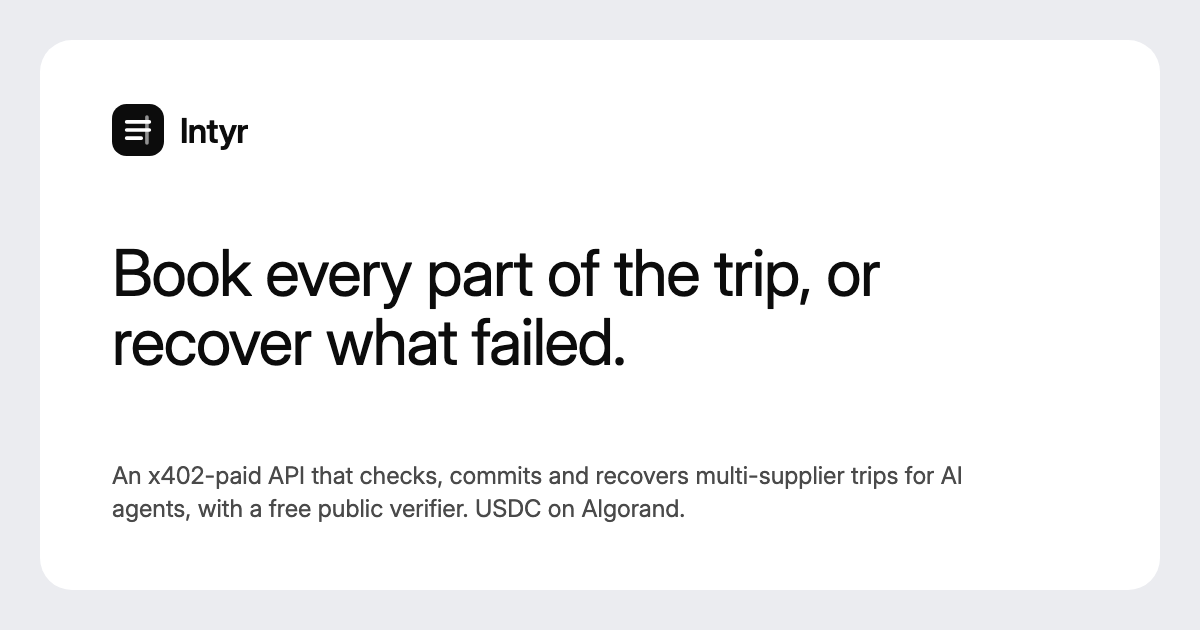
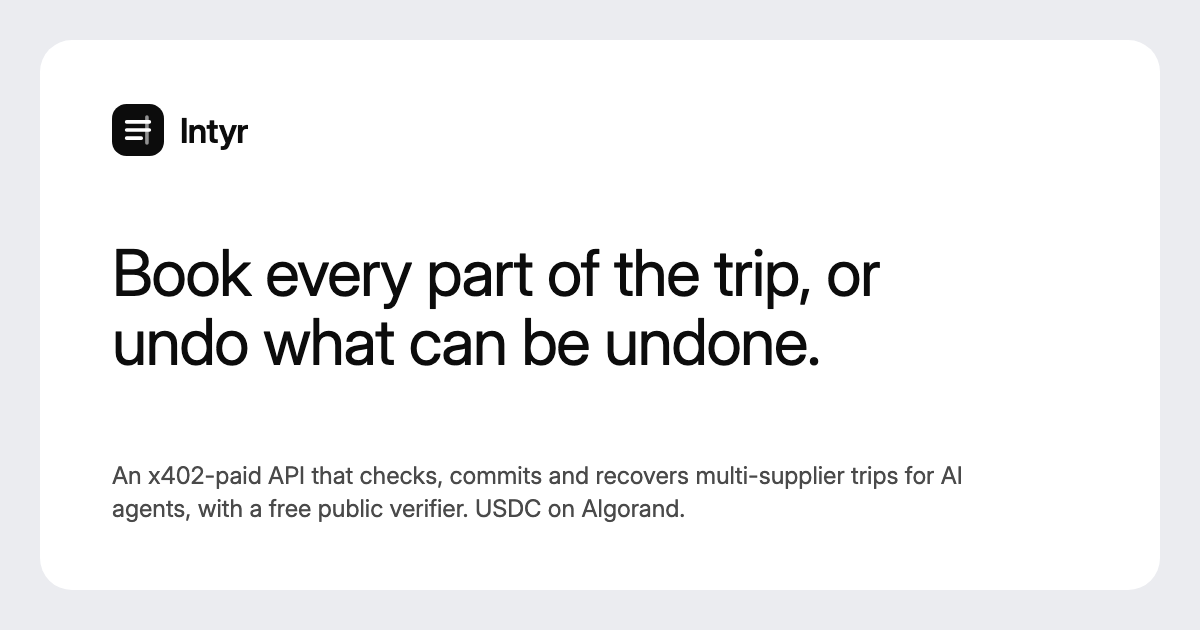
feat(web): state the campaign 001 result and link RUN-001's real records
Campaign 001 did not support the pre-registered claim that Intyr is more
reliable than a careful script. The landing page now shows the narrowed
claim as RESULTS.md states it, the three arms' figures and the F10 cell
Intyr lost, and adds commit order as a limit. The hero reads "Book every
part of the trip, or undo what can be undone", since F10 and the first
real-supplier run both ended with a leg that could not be undone.

The evidence page described RUN-001 as an end-to-end trip and said it was
not published. It is a team-paid Mainnet check, so the page says that,
labels it INTERNAL_VALIDATION and links its plan and USDC payment.
Campaign links point at RESULTS.md, which puts the loss first.

Changed region(s): [[0.0925, 0.5127, 0.6783, 0.6032]]

diff --git a/apps/web/src/routes/public/landing.tsx b/apps/web/src/routes/public/landing.tsx
@@ -1,5 +1,5 @@
 import { useEffect, type ReactNode } from "react";
-import { Link, useLocation } from "react-router";
+import { useLocation } from "react-router";
 import { BedDouble, Car, Check, Minus, Plane, RotateCcw, Send } from "lucide-react";
 import { LivePriceTable, findRoute, formatUsdc, useLivePrices, type LivePrices } from "../../components/landing-prices";
 import { LandingSteps } from "../../components/landing-steps";
@@ -7,6 +7,8 @@ import { TripRails } from "../../components/trip-rails";
 import { ButtonLink, Chip, ComponentStateChip, TripStateChip } from "../../components/ui";
 import type { TripComponent } from "../../lib/types";
 import type { Resource } from "../../lib/use-resource";
+
+const CAMPAIGN_RESULTS_URL = "https://github.com/winsznx/intyr/blob/main/evidence/campaign-001/RESULTS.md";
 
 /** Illustrative trip for the hero frame. Captioned as an illustration, never presented as a live run. */
 const EXAMPLE_TRIP: TripComponent[] = [
@@ -98,7 +100,7 @@ function Hero({ prices }: { prices: LivePrices | undefined }) {
         <div className="lp-hero-head">
           <span className="badge">For AI agents that book trips</span>
           <h1 className="display lp-hero-title" id="lp-hero-title">
-            Book every part of the trip, or recover what failed.
+            Book every part of the trip, or undo what can be undone.
           </h1>
           <p className="body-l lp-hero-sub">
             Intyr prepares each flight, hotel and transfer an AI agent wants, checks it before money moves, commits only inside the limits you set and
@@ -218,10 +220,11 @@ function Problem() {
         <p className="lp-footnote">
           These failures come from documented supplier behavior: lost responses, failures reported later, a reply that claims a booking that does not
           exist, and blind retries that book twice. The{" "}
-          <Link className="link" to="/evidence">
-            evidence page
-          </Link>{" "}
-          shows a naive agent running into each of them in a seeded simulator.
+          <a className="link" href={CAMPAIGN_RESULTS_URL} target="_blank" rel="noreferrer">
+            campaign results
+            <span className="visually-hidden"> (opens in a new tab)</span>
+          </a>{" "}
+          show a naive agent running into each of them in a seeded simulator.
         </p>
       </div>
     </section>
@@ -240,11 +243,96 @@ function HowItWorks() {
             </h2>
           </div>
           <p className="body-l">
-            Intyr gives an agent the commit and recovery behavior a careful engineer would write, as paid x402 calls. Each step returns a decision the
-            agent can branch on and a signed receipt.
+            Intyr gives an agent the commit and recovery behavior a careful engineer would write, as paid x402 calls, and matched such a script in
+            ten of eleven campaign cells. Each step returns a decision the agent can branch on and a signed receipt.
           </p>
         </div>
         <LandingSteps />
+      </div>
+    </section>
+  );
+}
+
+/** Figures from evidence/campaign-001/RESULTS.md. The claim is the narrowed one that document states, quoted as written. */
+const CAMPAIGN_ARMS = [
+  { name: "Naive agent", duplicates: "20", work: "3.6 supplier calls per trip", consistent: "36%" },
+  { name: "Careful script", duplicates: "0", work: "8.7 supplier calls per trip, and 431 lines of the caller's own code", consistent: "100%" },
+  { name: "Intyr", duplicates: "0", work: "2.9 calls to Intyr per trip", consistent: "92%" },
+];
+
+function Results() {
+  return (
+    <section className="section" aria-labelledby="lp-results-title">
+      <div className="container">
+        <div className="section-head">
+          <div className="lp-head-main">
+            <span className="badge">Measured</span>
+            <h2 className="h2" id="lp-results-title">
+              It matched a careful script in ten of eleven cells and lost one
+            </h2>
+          </div>
+          <p className="body-l">
+            Under ten documented supplier fault patterns, a naive agent leaves bookings stranded or duplicated in most runs. A careful engineer's script
+            avoids that. Intyr provides the same careful behaviour as one paid call per step, 2.9 calls per trip from the caller's side, with signed
+            manifests and decision records, and it matched that script in ten of eleven cells and lost one.
+          </p>
+        </div>
+
+        <div className="lp-prices">
+          <div className="lp-prices-head">
+            <p className="lp-prices-title">Campaign 001, 110 runs per approach on the seeded simulator</p>
+          </div>
+          <div className="lp-prices-body">
+            <table className="lp-price-table">
+              <thead>
+                <tr>
+                  <th scope="col">Approach</th>
+                  <th scope="col">Duplicate orders</th>
+                  <th scope="col">Work for the caller</th>
+                  <th scope="col" className="lp-pt-price">
+                    Consistent end state
+                  </th>
+                </tr>
+              </thead>
+              <tbody>
+                {CAMPAIGN_ARMS.map((arm) => (
+                  <tr key={arm.name}>
+                    <td className="lp-pt-call">
+                      <span className="lp-pt-name">{arm.name}</span>
+                    </td>
+                    <td className="lp-pt-returns" data-label="Duplicate orders">
+                      {arm.duplicates}
+                    </td>
+                    <td className="lp-pt-fee" data-label="Work for the caller">
+                      {arm.work}
+                    </td>
+                    <td className="lp-pt-price" data-label="Consistent">
+                      {arm.consistent}
+                    </td>
+                  </tr>
+                ))}
+              </tbody>
+            </table>
+          </div>
+          <p className="lp-prices-note">
+            A consistent end state means every leg ended fully booked or fully unwound, as read from the simulator's own order list. The campaign was
+            pre-registered in the repository before any run.
+          </p>
+        </div>
+
+        <article className="soft-card lp-card lp-results-loss">
+          <h3 className="title-s">The cell Intyr lost</h3>
+          <p className="body">
+            The hotel accepted the booking and then refused every cancellation, and the flight was refused. Nothing in either quote said the hotel could
+            not be cancelled, so Intyr booked the cheaper hotel first. 9 of 10 runs ended <code>RECOVERY_FAILED</code> with the hotel still booked,
+            and Intyr reported the stranded hotel each time. The script booked the flight first and stranded nothing.{" "}
+            <a className="link" href={CAMPAIGN_RESULTS_URL} target="_blank" rel="noreferrer">
+              Read the full results
+              <span className="visually-hidden"> (opens in a new tab)</span>
+            </a>
+            .
+          </p>
+        </article>
       </div>
     </section>
   );
@@ -357,6 +445,10 @@ const LIMITS = [
     text: "Supplier calls run against test modes and the simulator, so no ticket, room or ride is issued to anyone.",
   },
   {
+    lead: "Commit order is a tie-break",
+    text: "When no leg is marked as impossible to undo, Intyr commits the leg that expires first, then the cheaper one. If that leg later refuses to cancel, it stays booked, and the trip ends RECOVERY_FAILED naming it.",
+  },
+  {
     lead: "No insurance or bond",
     text: "Assurance mode is none. Intyr lowers the chance and size of a partial booking and underwrites nothing when one happens.",
   },
@@ -434,6 +526,7 @@ export function LandingPage() {
       <Hero prices={prices.data} />
       <Problem />
       <HowItWorks />
+      <Results />
       <Proof />
       <Pricing prices={prices} />
       <Limits />

diff --git a/apps/web/src/routes/public/evidence.tsx b/apps/web/src/routes/public/evidence.tsx
@@ -44,14 +44,16 @@ export function EvidenceIndexPage() {
         <h1 className="h2">The record behind the claims</h1>
         <div className="pf-lede">
           <p className="body-l">
-            The evidence bundle is the published record behind Intyr's claims. RUN-001 is the canonical run, one agent trip taken end to end with real
-            x402 payments in USDC and manifest anchors on Algorand that anyone can look up.
+            The evidence bundle is the published record behind Intyr's claims. RUN-001 is a paid call on Algorand Mainnet: a caller paid for a trip
+            check in USDC over x402, and Intyr returned a signed commit plan anchored on Algorand. The team paid it from its own wallet, so it is
+            labeled INTERNAL_VALIDATION and is not outside adoption.
           </p>
           <p className="body">
-            campaign-001 is a TestNet campaign on the seeded simulator. A naive agent, an independently written script and Intyr face the same supplier
-            faults, and each run is kept with its result. Suppliers in both are sandbox or simulated.
+            campaign-001 is a pre-registered campaign on the seeded simulator. A naive agent, an independently written script and Intyr face the same
+            supplier faults, and each run is kept with its result. Intyr matched the script in ten of eleven cells and lost one. Suppliers in both are
+            sandbox or simulated.
           </p>
-          <p className="body">Every figure on this page comes from the API. A record that is not published yet says so.</p>
+          <p className="body">Figures come from the API. Where the API does not serve a record yet, the card says so and links the results committed in the repository.</p>
         </div>
       </header>
 
@@ -59,13 +61,8 @@ export function EvidenceIndexPage() {
         <EvidenceCard
           runId="RUN-001"
           title="Canonical run"
-          summary="One trip from payment to final manifest, with payment and anchor transactions you can open in an explorer."
-          notFound={
-            <div className="pf-ev-empty">
-              <p className="pf-ev-empty-title">Not published yet</p>
-              <p className="small muted">The API has no record for RUN-001 yet. This card fills in once it is published.</p>
-            </div>
-          }
+          summary="A paid Mainnet check: the USDC payment and the signed, anchored commit plan it bought."
+          notFound={<Run001Links />}
         />
         <EvidenceCard
           runId="campaign-001"
@@ -74,9 +71,13 @@ export function EvidenceIndexPage() {
           notFound={
             <div className="pf-ev-empty">
               <p className="pf-ev-empty-title">Results are in the repository</p>
-              <p className="small muted">The API does not serve this campaign yet. Its summary is committed with the code. Suppliers in it are the seeded simulator.</p>
-              <a className="pf-ext" href={CAMPAIGN_SUMMARY_URL} target="_blank" rel="noreferrer">
-                Read the campaign summary on GitHub
+              <p className="small muted">
+                110 runs per approach on the seeded simulator. The naive agent ended consistent in 36% of runs with 20 duplicate orders, the script in
+                100%, and Intyr in 92% with no duplicates. Intyr lost one cell, where a hotel refused every cancellation, and reported the stranded hotel
+                each time. The API does not serve this campaign yet.
+              </p>
+              <a className="pf-ext" href={CAMPAIGN_RESULTS_URL} target="_blank" rel="noreferrer">
+                Read the campaign results on GitHub
                 <ArrowUpRight aria-hidden />
                 <span className="visually-hidden"> (opens in a new tab)</span>
               </a>
@@ -88,7 +89,29 @@ export function EvidenceIndexPage() {
   );
 }
 
-const CAMPAIGN_SUMMARY_URL = "https://github.com/winsznx/intyr/blob/main/evidence/campaign-001/SUMMARY.md";
+const CAMPAIGN_RESULTS_URL = "https://github.com/winsznx/intyr/blob/main/evidence/campaign-001/RESULTS.md";
+
+const RUN_001 = {
+  planId: "pln_357c45b828fabcb25b5e271e",
+  paymentTxUrl: "https://allo.info/tx/2MD7RMXDHTLVE76ZNTAOZKZCYEPLF7AIBBOAGZQEO6JOFQLNLVPA",
+};
+
+/** The API serves no evidence route for RUN-001, so the card links the records that exist: the plan and its payment. */
+function Run001Links() {
+  return (
+    <div className="pf-ev-empty">
+      <p className="small muted">The API does not serve an evidence record for this run. Its plan and payment are public on their own.</p>
+      <Link className="pf-ext" to={`/verify/${RUN_001.planId}`}>
+        RUN-001, Mainnet, team-paid, INTERNAL_VALIDATION
+      </Link>
+      <a className="pf-ext" href={RUN_001.paymentTxUrl} target="_blank" rel="noreferrer">
+        The USDC payment on Algorand Mainnet
+        <ArrowUpRight aria-hidden />
+        <span className="visually-hidden"> (opens in a new tab)</span>
+      </a>
+    </div>
+  );
+}
 
 function EvidenceCard({ runId, title, summary, notFound }: { runId: string; title: string; summary: string; notFound: ReactNode }) {
   const run = useEvidenceRun(runId);
@@ -224,8 +247,9 @@ export function EvidenceRunPage() {
           </span>
           <h1 className="title-m">{runId} is not published yet</h1>
           <p className="body">The API has no evidence record with this id. Published runs are listed on the evidence page.</p>
+          {runId === "RUN-001" ? <Run001Links /> : null}
           {runId === "campaign-001" ? (
-            <a className="pf-ext" href={CAMPAIGN_SUMMARY_URL} target="_blank" rel="noreferrer">
+            <a className="pf-ext" href={CAMPAIGN_RESULTS_URL} target="_blank" rel="noreferrer">
               Results are in the repository, run on the seeded simulator
               <ArrowUpRight aria-hidden />
               <span className="visually-hidden"> (opens in a new tab)</span>

diff --git a/apps/web/src/styles/landing.css b/apps/web/src/styles/landing.css
@@ -407,7 +407,7 @@
   margin-top: 12px;
 }
 
-/* Live price list, shared by the landing page and the quickstart */
+/* Data tables: the live price list (landing page and quickstart) and the campaign results */
 .lp-prices {
   padding: 8px;
   border-radius: var(--r-32);
@@ -508,6 +508,10 @@
 
 .lp-price-table td.lp-pt-price .skeleton {
   margin-left: auto;
+}
+
+.lp-results-loss {
+  margin-top: 24px;
 }
 
 .lp-skeleton-lines {
@@ -791,6 +795,14 @@
     content: attr(data-label);
     display: block;
     margin-bottom: 2px;
+    font-size: 12px;
+    color: var(--ink-3);
+  }
+
+  .lp-price-table td.lp-pt-price[data-label]::before {
+    content: attr(data-label);
+    margin-right: 6px;
+    font-family: var(--font-sans);
     font-size: 12px;
     color: var(--ink-3);
   }

diff --git a/apps/web/index.html b/apps/web/index.html
@@ -17,7 +17,7 @@
     <meta property="og:image" content="https://intyr.timjosh507.workers.dev/og.png" />
     <meta property="og:image:width" content="1200" />
     <meta property="og:image:height" content="630" />
-    <meta property="og:image:alt" content="Intyr. Book every part of the trip, or recover what failed." />
+    <meta property="og:image:alt" content="Intyr. Book every part of the trip, or undo what can be undone." />
     <meta name="twitter:card" content="summary_large_image" />
     <meta name="twitter:title" content="Intyr" />
     <meta name="twitter:description" content="An x402-paid API that checks, commits and recovers multi-supplier trips for AI agents, with a free public verifier." />

diff --git a/docs/web-ui.md b/docs/web-ui.md
@@ -8,10 +8,10 @@ Screenshots of live sandbox runs of every demo scenario are in [docs/evidence/ui
 
 | Route | Who it is for | What it shows |
 |---|---|---|
-| `/` | Anyone evaluating Intyr | What Intyr does, how check, prepare, commit and recover work, what a receipt proves and what it does not, live prices read from the API, and the limits of this release |
+| `/` | Anyone evaluating Intyr | What Intyr does, how check, prepare, commit and recover work, the campaign result (it matched a careful script in ten of eleven cells and lost one), what a receipt proves and what it does not, live prices read from the API, and the limits of this release |
 | `/docs/quickstart` | Agent developers | Discovery files, a `POST /v1/trips/check` example, the 402 challenge, a TypeScript client using `@x402/fetch` and `@x402/avm`, how to read `payment_state`, and the decision outcomes |
 | `/verify`, `/verify/:manifestId` | Anyone holding a manifest id or file | The proof page: claim sentence, proof state, the checks that ran, what the record proves and what it does not, environment and supplier labels, anchors, signing key, and a command to rerun verification |
-| `/evidence`, `/evidence/:runId` | Reviewers | The canonical run and the TestNet campaign, or an honest "not published yet" when a run does not exist |
+| `/evidence`, `/evidence/:runId` | Reviewers | RUN-001, a team-paid Mainnet check labeled `INTERNAL_VALIDATION`, linked to its plan and payment, and the campaign results committed in `evidence/campaign-001/RESULTS.md` |
 | `/replay/:runId` | Presenters | A recorded run stepped through under a fixed "Captured, not live" banner |
 | `/app` | The sandbox session holder | The trips queue. Work that needs a person comes first, then work in progress, then finished trips. There are no stat tiles or charts |
 | `/app/trips/new` | The sandbox session holder | Prepare a trip through Duffel test mode and the LiteAPI sandbox (priced in EUR), or check offers an agent already found without calling any supplier |
